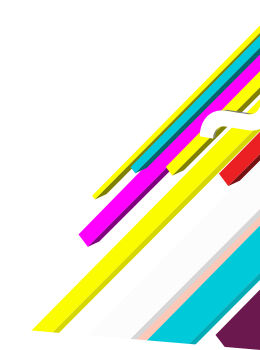
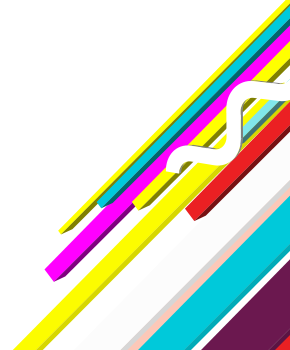
adjust bg

diff --git a/css/app.css b/css/app.css
@@ -572,7 +572,7 @@ select.form-Contact-itemSelect.is-error {
 
 .section-more {
   padding: 220px 0 111px 0;
-  background: #322338 url(../img/fnd-chica.png) no-repeat;
+  background: #322338;
   background-size: 100% auto;
   display: flex;
   justify-content: flex-end;
@@ -586,6 +586,15 @@ select.form-Contact-itemSelect.is-error {
   position: absolute;
   right: 0;
   bottom: -3px;
+}
+.section-more-bg {
+  position: absolute;
+  right: 0;
+  bottom: -1px;
+  left: 0;
+  height: 150px;
+  background: url(../img/fnd-girl.svg) no-repeat;
+  background-size: cover;
 }
 
 .section-moreTxt {

diff --git a/index.html b/index.html
@@ -269,6 +269,7 @@
       <section class="section section-more" id="more-than">
         <div class="section-more-media"><img src="../img/img-girl.png" /></div>
         <div class="section-more-bar"><img src="../img/barras.png" /></div>
+        <div class="section-more-bg"></div>
         <div class="section-moreTxt">
           <h2 class="section-moreTitle is-white">More than <span class="is-bold is-green">20.000 publishing partners</span> and <span class="is-bold is-white">5.000 advertisers</span> to date in Europe and South America.</h2>
 
